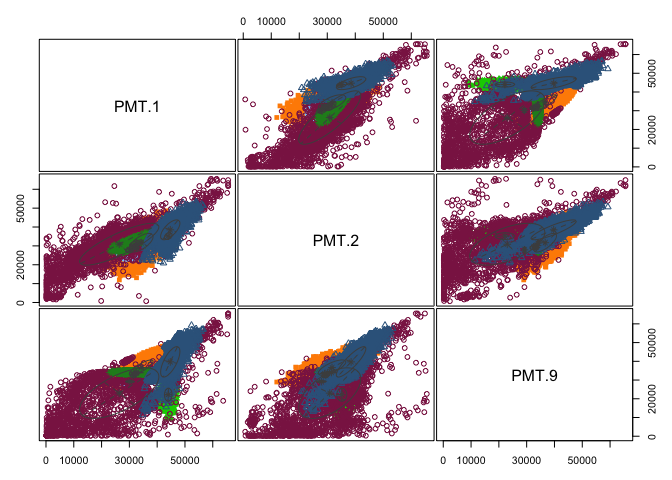
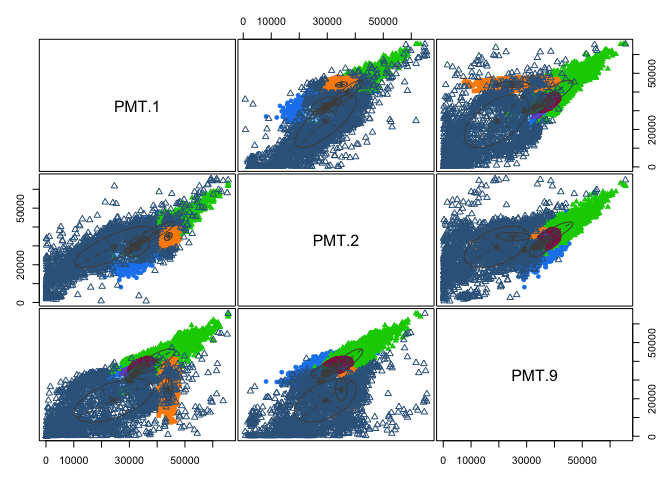
add Monte Carlo for flowClust

diff --git a/workflow/04a-GMM-for-Z-project.md b/workflow/04a-GMM-for-Z-project.md
@@ -1,6 +1,6 @@
 04a-GMM for Z-project
 ================
-Compiled at 2023-11-10 10:46:54 UTC
+Compiled at 2023-11-15 21:34:49 UTC
 
 ``` r
 here::i_am(paste0(params$name, ".Rmd"), uuid = "9d6a84ea-ebe8-4073-bfe1-9e2529a9d667")
@@ -122,6 +122,10 @@ library(VGAMextra)
     ## 
     ## For a short description, fixes/bugs, and new
     ## features type vgamextraNEWS().
+
+``` r
+library(mvtnorm)
+```
 
 ``` r
 # create or *empty* the target directory, used to write this file's data: 
@@ -319,7 +323,7 @@ GMMroc <- function(data,gating_data,dimension,CI){
       else {data1$Cluster[cell] <- which.min(rv)}
     }
   
-    result <- table(data1$Cluster) %>% as.data.frame()
+    result <- base::table(data1$Cluster) %>% as.data.frame()
     sum1 <- sum(result$Freq)
   
     eigen <- matrix(NA,nrow=length(sigma),ncol=dimension)
@@ -680,10 +684,6 @@ for (i in 1:5){
 
     ## Updated model 6
 
-    ## Merged to 9 clusters
-
-    ## Merged to 8 clusters
-
     ## Merged to 7 clusters
 
     ## Merged to 6 clusters
@@ -731,14 +731,6 @@ for (i in 1:5){
     ## Rule of identifying outliers: 90% quantile
 
     ## Updated model 8
-
-    ## Rule of identifying outliers: 90% quantile
-
-    ## Updated model 9
-
-    ## Rule of identifying outliers: 90% quantile
-
-    ## Updated model 10
 
     ## Merged to 2 clusters
 
@@ -981,7 +973,10 @@ for (i in 1:5){
 ### for points
 
 ``` r
-flowClust_roc <- function(data,gating_data,alpha){
+flowClust_roc <- function(data,gating_data,dimension,alpha){
+  
+  w <- gating_data@w
+  
   # Box-Cox trans
   lambda <- gating_data@lambda
   data <- flowClust::box(data,lambda)
@@ -989,19 +984,10 @@ flowClust_roc <- function(data,gating_data,alpha){
   # maha-matrix
   mu <- t(gating_data@mu)
   dim <- dim(gating_data@sigma)[1]
-  
-  #inverse Box-Cox transformation
-  invBoxCox <- function(x, lambda){
-    if (lambda == 0) exp(x) 
-    else (lambda*x + 1)^(1/lambda)
-  }
     
   sigma <- list()
-  inv.sigma <- list()
   for (i in 1:dim){
-    var1 <- gating_data@sigma[i,,]
-    sigma[[i]] <- var1
-    #inv.sigma[[i]] <- invBoxCox(data,lambda)
+    sigma[[i]] <- gating_data@sigma[i,,]
   }
   
   names <- colnames(data)
@@ -1020,37 +1006,43 @@ flowClust_roc <- function(data,gating_data,alpha){
   
   data1 <- maha_data[,2:n_clusters] %>% as.data.frame()
   
+  #randomly sample points
+  set.seed(123)
+  num_points <- 100000
+  
+  random_points <- runif(num_points*dimension,min=200,max=65535)
+  random_boxcox <- flowClust::box(random_points,lambda) %>% round(2)
+  random_data <- matrix(random_boxcox,ncol=dimension,nrow=num_points)
+  
+  random_value <- data.frame()
+  weight_pdf <- c()
+  
+  #compute pdf value of mix-t
+  for (i in 1:num_points){
+    for (j in 1:length(sigma)){
+      pdf <- mvtnorm::dmvt(random_data[i,],delta=mu[,j],sigma=sigma[[j]],df=4,log=F)
+      weight_pdf[j] <- pdf*w[j]
+      }
+    random_value[i,1] <- sum(weight_pdf)
+    }
+  
+  adjust_value <- random_value*(max(random_boxcox)-min(random_boxcox))^dimension
   roc.points <- data.frame(cell=NA,volume=NA)
   
-  for (alpha in alpha){
-    threshold <- 2*qf(alpha,2,4)
+  #performance at diff. alpha
+  for (alpha in c(0.1,0.9)){
+    threshold <- dimension*qf(alpha,dimension,4)
     
-    for (cell in 1:ncells){
-      rv <- data1[cell,1:ncol(data1)-1]
-      if(all(rv>threshold)) {data1$Cluster[cell] <- NA}
-      else {data1$Cluster[cell] <- which.min(rv)}
+    # volume
+    inside_distribution <- c()
+    for (i in 1:num_points){
+      if(adjust_value[i,1]>threshold){inside_distribution[i]<-0}
+      else {inside_distribution[i]<-1}
     }
-  
-    result <- table(data1$Cluster) %>% as.data.frame()
-    sum1 <- sum(result$Freq)
-    
-    
-    # calculate volume
-    eigen <- matrix(NA,nrow=length(sigma),ncol=2)
-    for (i in 1:length(sigma)){
-      eigen[i,] <- eigen(sigma[[i]])$values
-    }
-    eigen <- eigen[-1,]
-  
-    area <- matrix(NA,nrow=nrow(eigen),ncol=1)
-    for (i in 1:nrow(eigen)){
-      area[i,1] <- pi*sqrt(eigen[i,1]*eigen[i,2])*(2*qf(alpha,2,4))
-    }
-    area <- as.data.frame(area)
-    sum2 <- sum(area)
-    sum.roc <- cbind(cell=sum1,volume=sum2)
-    
-    roc.points <- rbind(roc.points,sum.roc)
+    sum1 <- trunc(sum(inside_distribution)/num_points*ncells)
+    sum2 <- sum(inside_distribution)/num_points*(65535-200)^dimension
+    results <- cbind(cell=sum1,volume=sum2) %>% as.data.frame()
+    roc.points <- rbind(roc.points,results)
   }
     result <- list(maha.matrix=data1,roc.table=roc.points)
   return(result)
@@ -1066,11 +1058,11 @@ for (i in 1:5){
   data0 <- DAPI[[name]]@exprs[,c(11,27)]
   gating_data <- DAPI_fC_flex[[name]]
   alpha <- seq(0.01,0.99,by=0.01)
-  DAPI_fC_flex_roc[[name]] <- flowClust_roc(data0,gating_data,alpha)
+  DAPI_fC_flex_roc[[name]] <- flowClust_roc(data0,gating_data,2,alpha)
   
   #trans=0: no box-cox
-  test <- flowClust(DAPI[[i]], varNames = c("PMT.1","PMT.9"), K=9,trans = 0)
-  DAPI_fC_fix_roc[[i]] <- flowClust_roc(data0,test,alpha)
+  #test <- flowClust(DAPI[[i]], varNames = c("PMT.1","PMT.9"), K=9,trans = 0)
+  #DAPI_fC_fix_roc[[i]] <- flowClust_roc(data0,test,alpha)
 }
 ```
 
